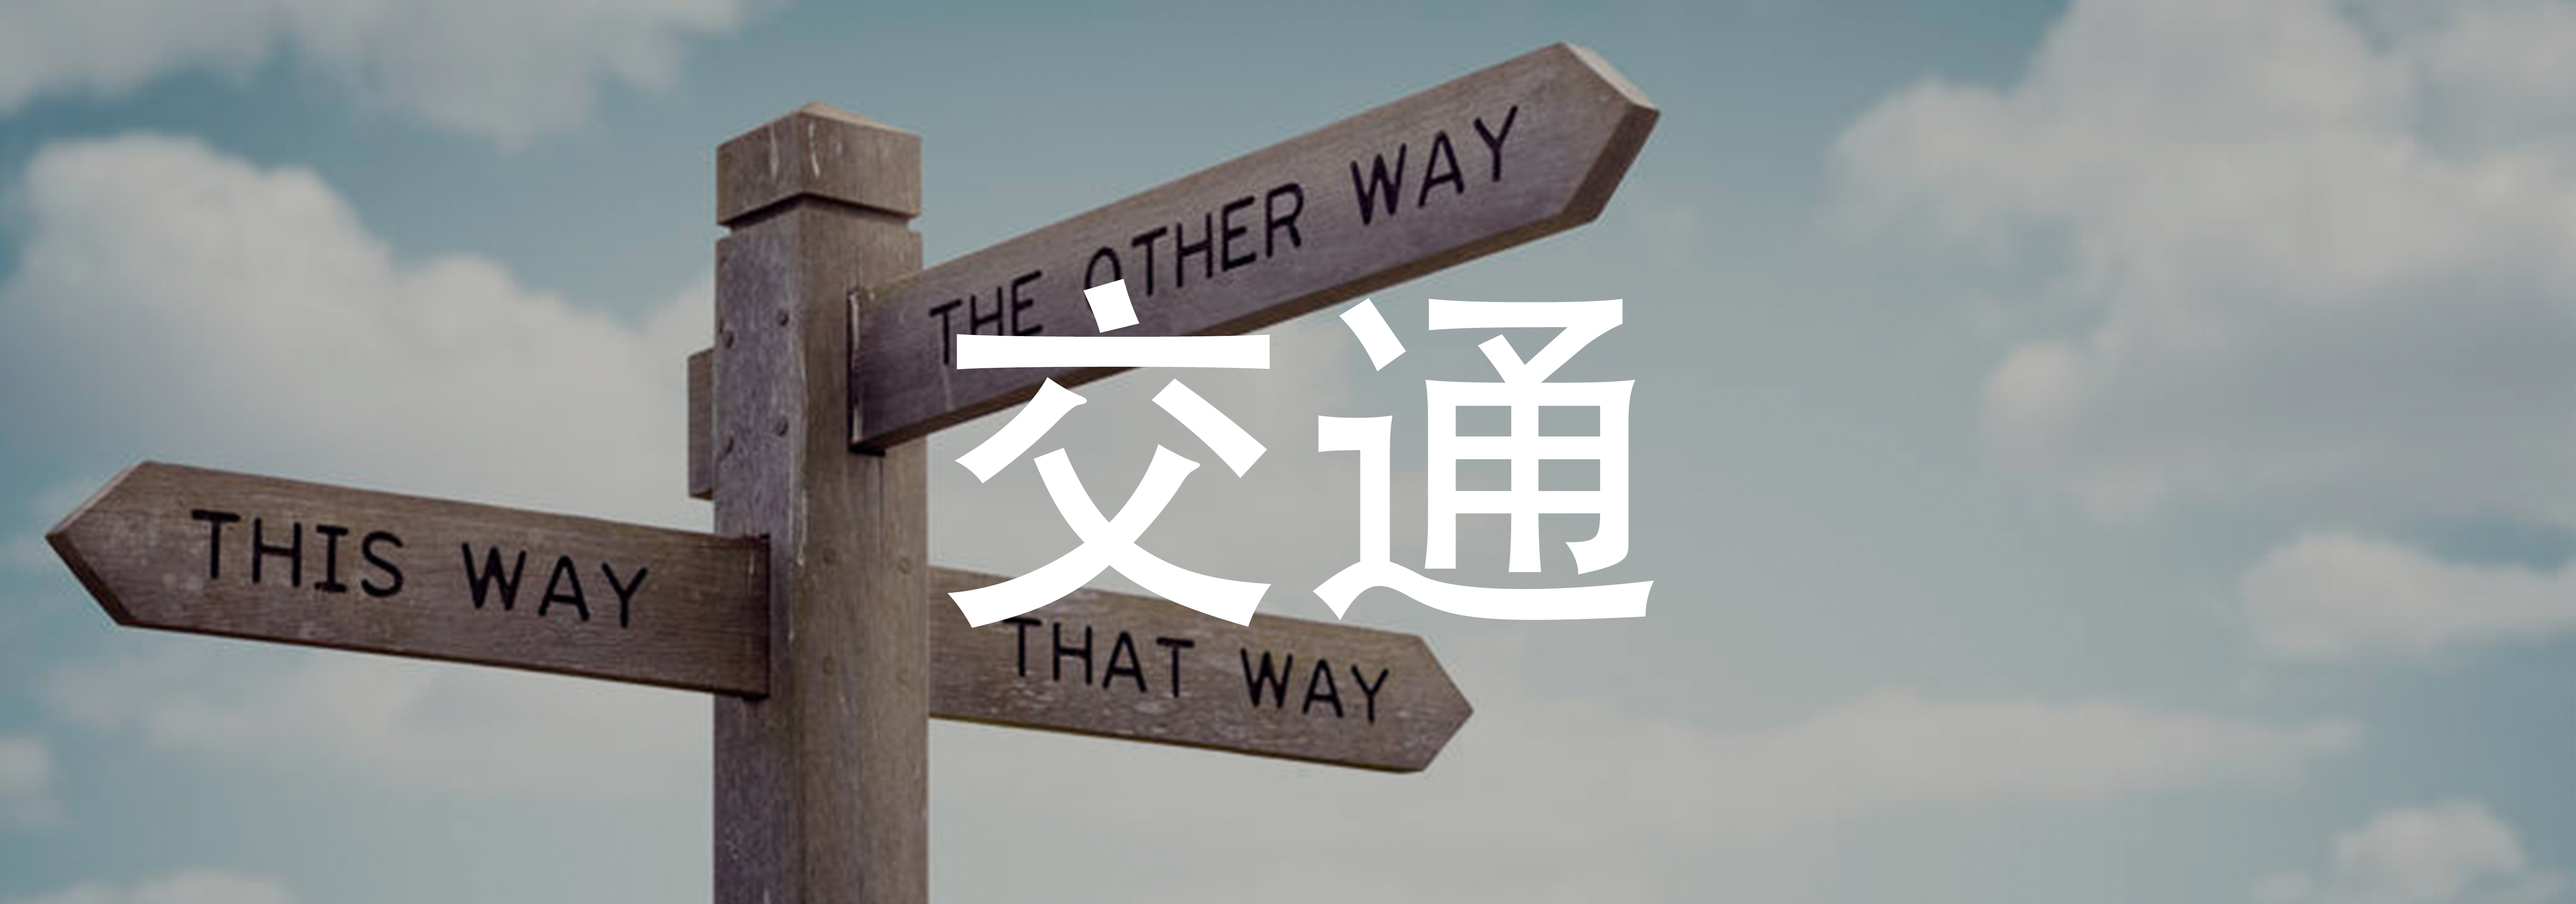
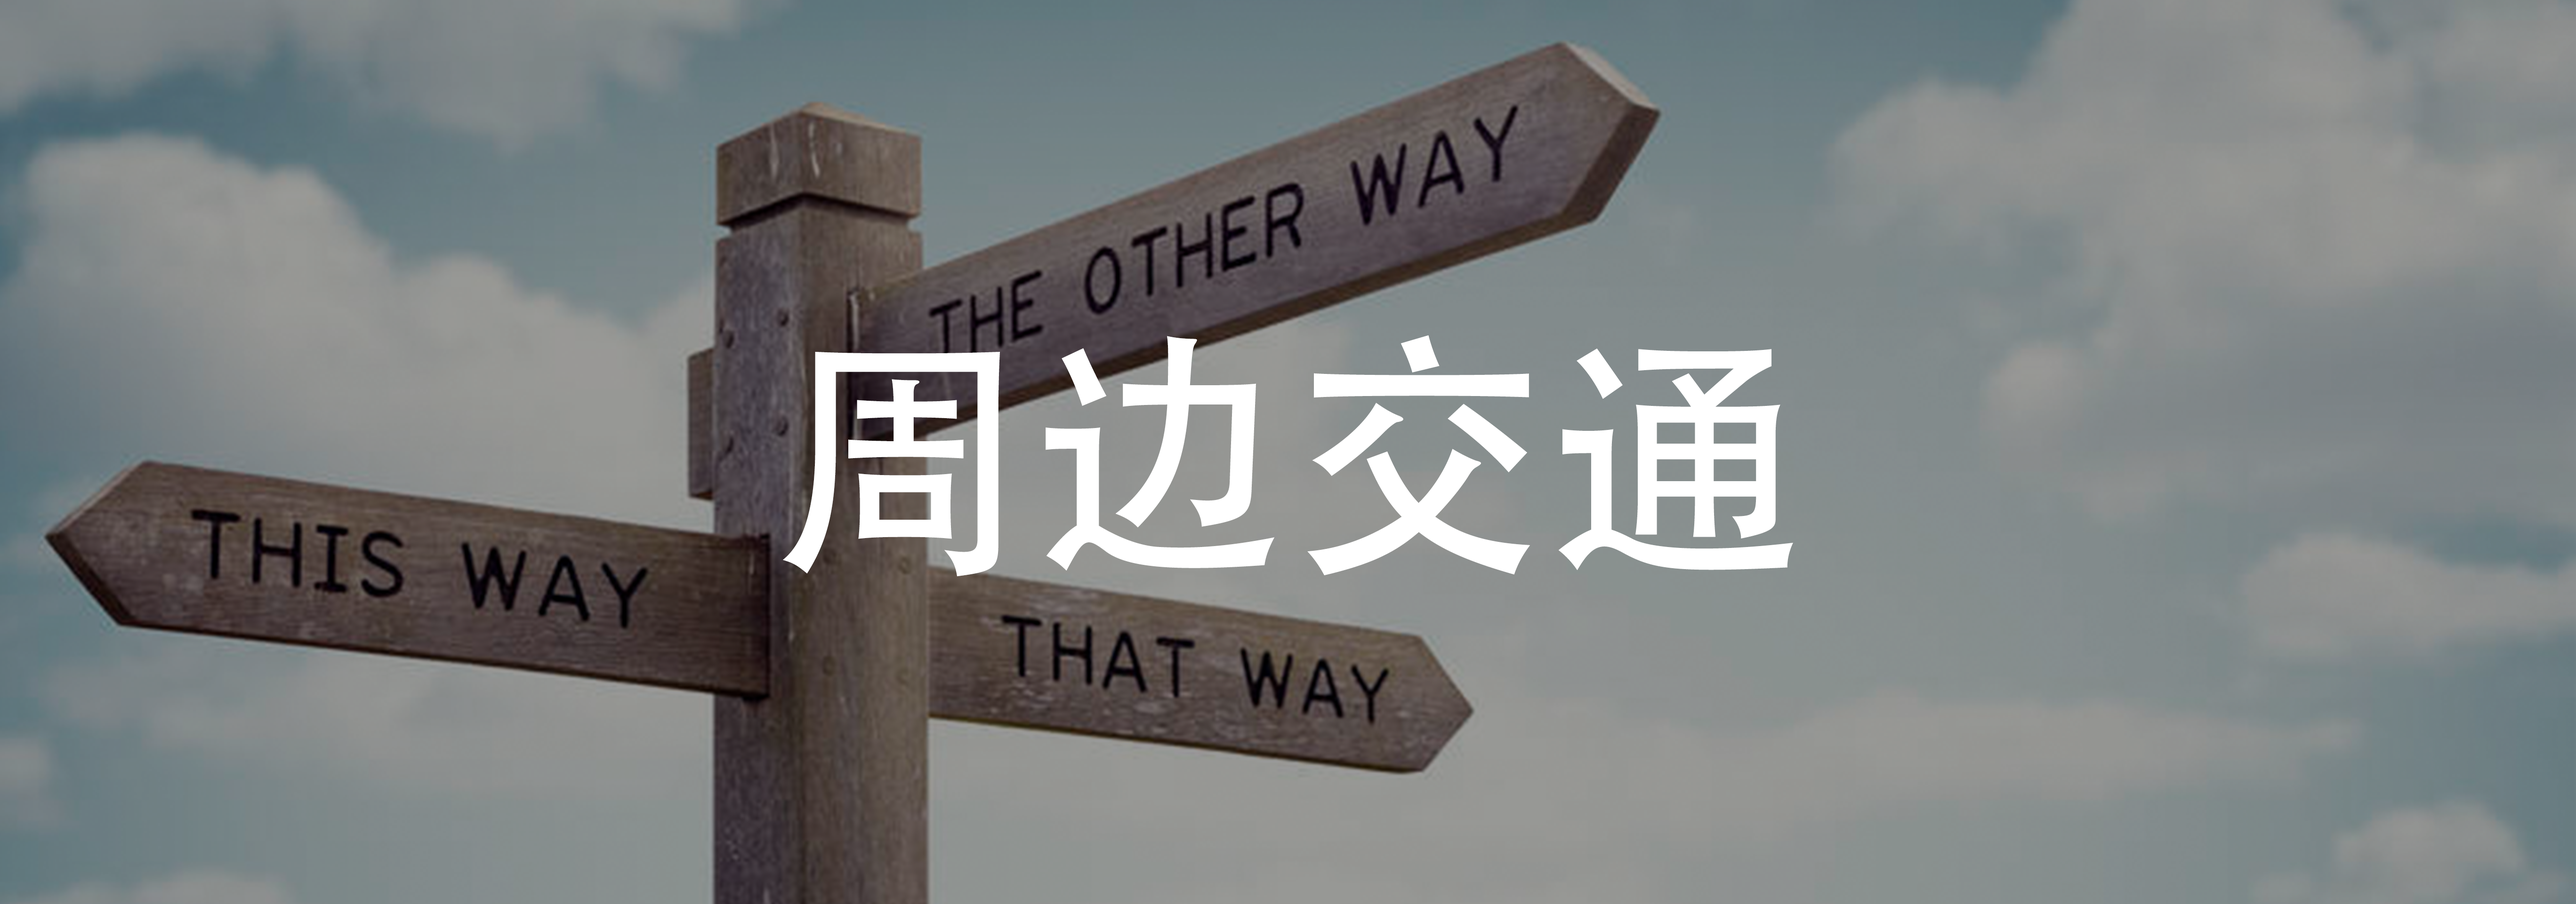
third-version

diff --git a/index.html b/index.html
@@ -103,7 +103,7 @@
       <div class="view-content">
       <div id="flexslider-1" class="flexslider flexslider-processed">
   <ul class="slides"><li class="flex-active-slide" style="width: 100%; float: left; margin-right: -100%; position: relative; opacity: 1; display: block; transition: opacity 0.6s ease 0s; z-index: 2;">  
-  <div class="views-field views-field-field-image">        <div class="field-content"><img src="./大学生活 _ 浙江大学国际联合学院_files/wei_biao_ti_-3.jpg" width="1600" height="500" alt="" draggable="false"></div>  </div>  
+  <div class="views-field views-field-field-image">        <div class="field-content"><img src="http://wx3.sinaimg.cn/large/006uvA0Mly1fxo9eut2b8j318g0dwh23.jpg" width="1600" height="500" alt="" draggable="false"></div>  </div>  
   <div class="views-field views-field-field-link-text">        <div class="field-content"><a href="http://www.intl.zju.edu.cn/zh-hans">大学生活</a></div>  </div></li>
 </ul><ol class="flex-control-nav flex-control-paging"></ol><ul class="flex-direction-nav"><li class="flex-nav-prev"><a class="flex-prev flex-disabled" href="http://www.intl.zju.edu.cn/zh-hans/content/871890#" tabindex="-1"></a></li><li class="flex-nav-next"><a class="flex-next flex-disabled" href="http://www.intl.zju.edu.cn/zh-hans/content/871890#" tabindex="-1"></a></li></ul></div>
     </div>
@@ -112,15 +112,15 @@
 
   
     <div class="main-div campus-life">
-    	<div class="title">校园生活</div>
+    	<div class="title">生活在海宁</div>
     	<div class="content">
             <div class="campus-life-main">
-                <img src="images/campus-life/search_hn.jpg">
+                <img src="http://wx2.sinaimg.cn/large/006uvA0Mly1fxo99normzj31400u01kx.jpg">
             </div>
             <div class="campus-life-branch">
-                <a href="##"> <img class="branch-img" src="images/campus-life/dorm.jpg"> </a>
-                <a href="##"> <img class="branch-img" src="images/campus-life/map.png"> </a>
-                <a href="##"> <img class="branch-img" src="images/campus-life/traffic.png"> </a>
+                <a href="##"> <img class="branch-img" src="http://wx3.sinaimg.cn/large/006uvA0Mly1fxo99kv6pmj31kw0jzq9u.jpg"> </a>
+                <a href="##"> <img class="branch-img" src="http://wx4.sinaimg.cn/large/006uvA0Mly1fxo99lv1f4j31kw0jzdun.jpg"> </a>
+                <a href="##"> <img class="branch-img" src="http://wx1.sinaimg.cn/large/006uvA0Mly1fxo99mt4w4j31kw0jzdkm.jpg"> </a>
             </div>
         </div>
     </div>
@@ -167,8 +167,44 @@
     </div>
 
 
-  <div class="main-div students-affair">
-  	<div class="title">学生发展</div>
+
+
+    <div class="main-div search-hn">
+    	<!-- <img src=""> -->
+    	<div class="content">
+    		<div class="words">
+    			<a href="##" class="no-decoration">
+    			<h2>了解更多学生生活的精彩 >>></h2>
+    			</a>
+    		</div>
+        </div>
+    </div>
+
+    <div class="main-div campus">
+        <div class="campus-row">
+        	<div class="campus-des">
+        		<div class="campus-des-words">
+        			<a href="##" class="no-decoration">
+        			<h2>学生组织与社团</h2>
+        			<p>附件打开了飞机哇飞机哇哦金佛啊反对拉萨解放昆仑山JFK了手机卡路附近开了的角色考了几分考了几分离开就上空的飞机看来圣诞节快乐就开始大家离开家房间里哇范加尔我附近的斯卡拉酱豆腐立刻</p>
+        			</a>
+        		</div>
+        	</div><img src="http://wx2.sinaimg.cn/large/006uvA0Mly1fxo99o6r9ij309907vgmp.jpg">
+        </div>
+        <div class="campus-row">
+        	<img src="http://wx2.sinaimg.cn/large/006uvA0Mly1fxo99ol0jxj309907v43e.jpg"><div class="campus-des">
+        		<div class="campus-des-words">
+        			<a href="##" class="no-decoration">
+        			<h2>校园文化</h2>
+        			<p>附近开了怎么明成祖，附件打反倒是咖啡机开始啦解放昆仑山搭街坊卡拉就昆仑山搭街坊可拉斯基离开就立刻建立开放式的交流空间刻录机的两款手机刻录机可拉斯基刻录机斯卡拉酱刻录机考了几分开撒罗尼每次</p>
+        			</a>
+        		</div>
+        	</div>
+        </div>
+    </div>
+
+  <div class="main-div students-affair ">
+    <div class="title">学生发展</div>
     <div class="content">
       <div class="affair-cards"> 
         <div class="inline-div affair-card">
@@ -195,52 +231,6 @@
       </div>
     </div>
   </div>
-
-    <div class="main-div search-hn">
-    	<!-- <img src=""> -->
-    	<div class="content">
-    		<div class="words">
-    			<a href="##" class="no-decoration">
-    			<h3>探索海宁</h3>
-    			<span>飞机挖了发货的金卡·wakekl/考了几分可拉斯基我看拉法基卡拉就是 飞机开始大量监控力度记反</span>
-    			</a>
-    		</div>
-        </div>
-    </div>
-
-    <div class="main-div campus">
-        <div class="campus-row">
-        	<div class="campus-des">
-        		<div class="campus-des-words">
-        			<a href="##" class="no-decoration">
-        			<h2>学生组织与社团</h2>
-        			<p>附件打开了飞机哇飞机哇哦金佛啊反对拉萨解放昆仑山JFK了手机卡路附近开了的角色考了几分考了几分离开就上空的飞机看来圣诞节快乐就开始大家离开家房间里哇范加尔我附近的斯卡拉酱豆腐立刻</p>
-        			</a>
-        		</div>
-        	</div><img src="images/club-culture/club2.jpeg">
-        </div>
-        <div class="campus-row">
-        	<img src="images/club-culture/culture2.png"><div class="campus-des">
-        		<div class="campus-des-words">
-        			<a href="##" class="no-decoration">
-        			<h2>校园文化</h2>
-        			<p>附近开了怎么明成祖，附件打反倒是咖啡机开始啦解放昆仑山搭街坊卡拉就昆仑山搭街坊可拉斯基离开就立刻建立开放式的交流空间刻录机的两款手机刻录机可拉斯基刻录机斯卡拉酱刻录机考了几分开撒罗尼每次</p>
-        			</a>
-        		</div>
-        	</div>
-        </div>
-    </div>
-
-    <div class="main-div news">
-    	<div class="content">
-    		<div class="words">
-    			<a href="##" class="no-decoration">
-    			<h1>新闻</h1>
-    			<span>飞机挖了发货的金卡·wakekl/考了几分可拉斯基我看拉法基卡拉就是 飞机开始大量监控力度记反</span>
-    			</a>
-    		</div>
-    	</div>
-    </div>
 
   <footer class="footer region region-footer" role="contentinfo">
     <div class="block block-views first odd" id="block-views-foot-menu-block-footmenu">

diff --git a/my.css b/my.css
@@ -1,9 +1,9 @@
 .footer { margin: 0!important; }
-.main-div { margin: 80px 0;  }
-.content { position: relative; margin: 40px 10%; max-width: 2000px;}
+.main-div { margin: 80px 0; padding: 0 10%; }
+.content { position: relative; margin: 50px auto; max-width: 1280px;}
 .no-decoration { text-decoration: none; }
 .no-decoration:hover, .no-decoration:active, .no-decoration:link, .no-decoration:visited { text-decoration: none; }
-.title { color: #003f88;  position: relative; margin: 0 10%; font-size: 36px; font-family: RobotoCondensed, sans-serif; font-weight: 700; line-height: 36px; padding: 30px 0 20px; border-bottom: 1px solid #e8e8e8; }
+.title { color: #003f88;  position: relative; margin: 0 auto; font-size: 36px; font-family: RobotoCondensed, sans-serif; font-weight: 700; line-height: 36px; padding: 30px 0 25px; border-bottom: 1px solid #e8e8e8; max-width: 1280px; }
 img { vertical-align: middle; }
 
 
@@ -15,32 +15,34 @@ img { vertical-align: middle; }
 .campus-service .content { margin-bottom: 15px; }
 .campus-service .title { text-align: right;}
 .campus-service-icons { white-space: nowrap; overflow: hidden; }
-.icons-part { position: relative; display: inline-flex; justify-content: space-between; width: 64%; margin: 30px 18%; flex-wrap: nowrap;}
+.icons-part { position: relative; display: inline-flex; justify-content: space-between; width: 64%; margin: 30px 18%; flex-wrap: nowrap; transition: all .5s ease;}
 .icon-part { display: block; color: #003f88!important; text-align: center; width: 80px;}
-.arrow { position: absolute; width: 10%; height: 90%; z-index: 5; background-size: contain; background-repeat: no-repeat;}
+.arrow { position: absolute; width: 5%; height: 90%; z-index: 5; background-size: contain; background-position: center; background-repeat: no-repeat; cursor: pointer; opacity: 0.5;}
+.campus-service-icons:hover  .arrow { opacity: 1; }
 .go-left { left: 0; background-position: left; background-image: url(images/public_service/arrow-left.png); }
 .go-right { right: 0; background-position: right; background-image: url(images/public_service/arrow-right.png); }
 .dots {width: 100%; text-align: center;}
 .dot { display: inline-block; height: 10px; border-radius: 10px; width: 10px; background-color: #003f88; margin: 0 .5rem; transition: all .5s ease; cursor: pointer;}
 #dot1 { opacity: 0.5; }
 
-.search-hn { height: 400px; background-color: #222; }
-.search-hn .content { color: white; height: 100%; }
-.words { position: absolute; display:flex; height: 100%; max-width: 40%; flex-direction: column; justify-content: center; word-wrap: break-word;}
-.words h3 { margin-top: 0; color: #fff;}
-.words .no-decoration { color: #f9f9f9; }
-.words .no-decoration:hover { text-decoration: underline; }
+.search-hn { height: 400px; background-image: url(http://wx3.sinaimg.cn/large/006uvA0Mly1fxo99p4kt0j30u01904hc.jpg); background-size: cover; background-repeat: no-repeat; background-position: 0 43%;  }
+.search-hn .content { color: white; height: 100%;}
+.words { position: absolute; display:flex; height: 100%;  flex-direction: column; justify-content: center; }
+.words h2 { margin-top: 0; color: #fff; font-style: oblique;}
+.search-hn .words { width: 100%; text-align: center;}
+.words .no-decoration:hover { text-decoration: underline; text-decoration-color: white;}
 
-.students-affair {}
+.students-affair { margin: 0; padding: 80px 10%; background-image: url(http://wx2.sinaimg.cn/large/006uvA0Mly1fxo99pj43hj30p00fhqch.jpg); background-repeat: no-repeat; background-size: cover;}
 .students-affair .content { height: 100%; display: flex; align-items: center;}
-.affair-cards { width: 100%; display: flex; flex-wrap: wrap; justify-content: space-around; padding: 0 1.4rem;}
+.students-affair .title { color: white; border-bottom: 1px solid #888; }
+.affair-cards { width: 100%; display: flex; flex-wrap: wrap; justify-content: space-between;}
 .affair-card { flex: 0 1 300px; height: 300px; margin: 15px 0;}
 .affair-card-a {  display: inline-flex; flex-direction: column; justify-content: center; align-items: center; width: 100%; height: 100%; background-color: white!important; box-shadow: 0px 0px 15px  rgba(0,0,0,.5); border-bottom: 2px solid #ac2325; border-radius: 4px;}
 .affair-card-a span { font-size: 22px; font-weight: bold; line-height: 40px; color: #333;}
 .affair-content { word-wrap:break-word; width: 80%; color: #666;}
 .affair-card-a:hover span, .affair-card-a:hover .affair-content{ color: #ac2325; }
 
-.campus { margin: -80px 0 0 0; }
+.campus { margin: -80px 0 0 0; padding: 0; }
 .campus-row { display: flex; margin: 0; position: relative;/* background-color: #fff;*/ align-items: center;}
 .campus-row img { width: 50%; height: 50%; }
 .campus-des { display: inline-block; width: 50%; }
@@ -54,9 +56,3 @@ img { vertical-align: middle; }
 .campus-row .campus-des:nth-child(odd) { left: 5%; }
 .campus-des {display: flex; flex-direction: column; justify-content: center; width: 50%; position: absolute; height: 70%; background-color: #d4d6db; z-index: 5; box-shadow: 4px 2px 10px #333;}
 */
-.news {margin: 0; height: 600px; background-color: #222; }
-.news .content { color: white; height: 100%; margin: 0 15%;}
-.words { position: absolute; display:flex; height: 100%; max-width: 30%; flex-direction: column; justify-content: center; word-wrap: break-word;}
-.words h1 { margin-top: 0; color: #fff;}
-.words .no-decoration { color: #f9f9f9; }
-.words .no-decoration:hover { text-decoration: underline; }

diff --git a/test.js b/test.js
@@ -1,0 +1,21 @@
+$(document).ready(()=>{
+  var arrow_index = 0;
+  var content_width = parseInt($(".campus-service-icons").width());
+  $(window).resize(()=>{
+    content_width = parseInt($(".campus-service-icons").width());
+      $(".icons-part").css('transform','translateX(' + -arrow_index*content_width + 'px)');
+  });
+  $(".arrow").click(function(){
+    if ($(this).hasClass("go-left") && arrow_index) { arrow_index--; }
+    if ($(this).hasClass("go-right") && arrow_index<1) { console.log(1);arrow_index++; }
+    $(".icons-part").css('transform','translateX(' + -arrow_index*content_width + 'px)');
+    $(".dot").css("opacity","0.5");
+    $("#dot"+arrow_index).css("opacity","1");
+  });
+  $(".dot").click(function(){
+    var arrow_index = parseInt(this.id.slice(3));
+    $(".icons-part").css('transform','translateX(' + -arrow_index*content_width + 'px)');
+    $(".dot").css("opacity","0.5");
+    $(this).css("opacity","1");
+  })
+});
